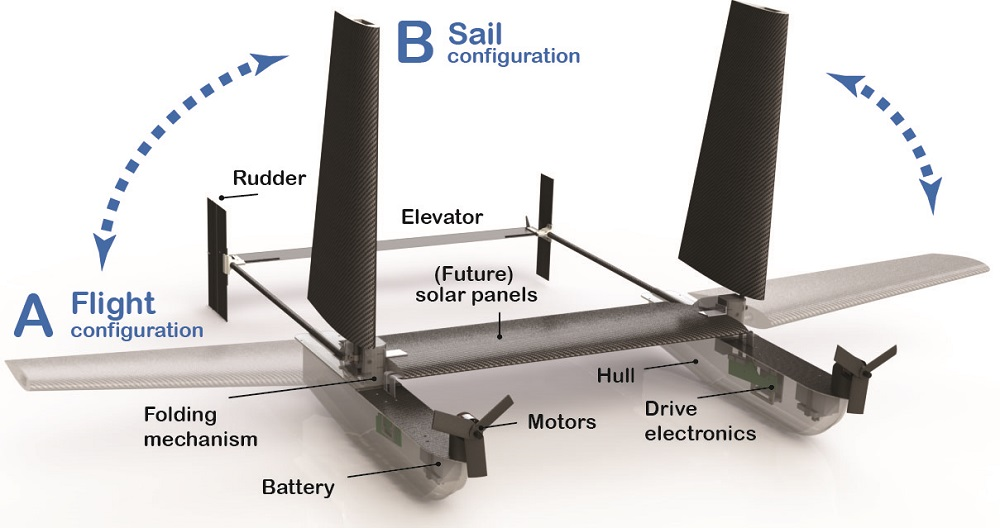
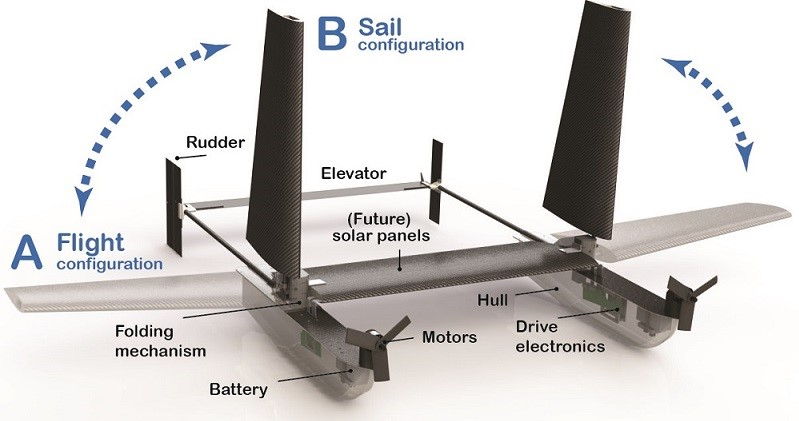
minor changes

diff --git a/sailmav.html b/sailmav.html
@@ -6,7 +6,7 @@
 -->
 <html>
 	<head>
-		<title>Generic - Hyperspace by HTML5 UP</title>
+		<title>SailMAV</title>
 		<meta charset="utf-8" />
 		<meta name="viewport" content="width=device-width, initial-scale=1, user-scalable=no" />
 		<link rel="stylesheet" href="assets/css/main.css" />
